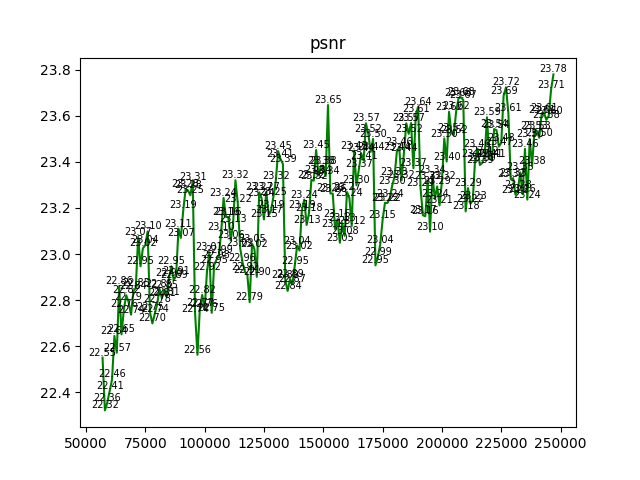
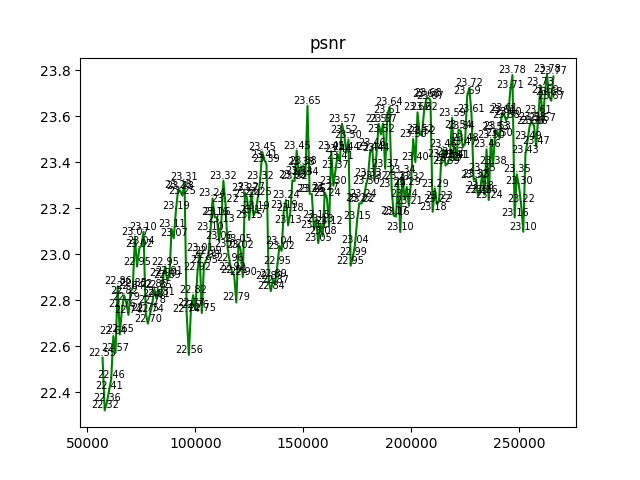
add

diff --git a/ReaderCSVToImage.py b/ReaderCSVToImage.py
@@ -3,8 +3,10 @@ import csv
 from matplotlib import pyplot as plt
 #subdir = 'kth_channel_128'
 #subdir = 'kth128'
-subdir = 'threemau_multidim_cross'
+#subdir = 'threemau_multidim_cross'
 #subdir = 'mulmul_o_3x7'
+#subdir = 'threemau_multidim_cache_cross'
+subdir = 'threemau_multidim_cache_cross_mul'
 
 file = "plot/images/"+subdir+"/result.csv"
 result_file = open(file)  # 打开csv文件
